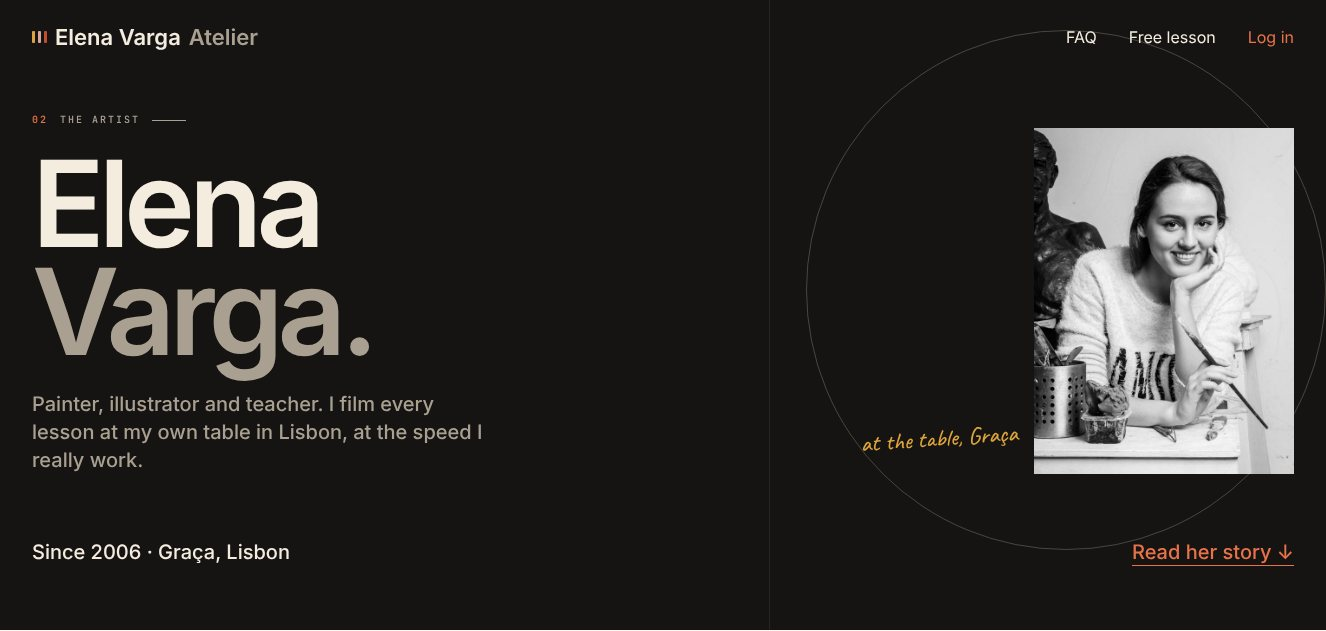
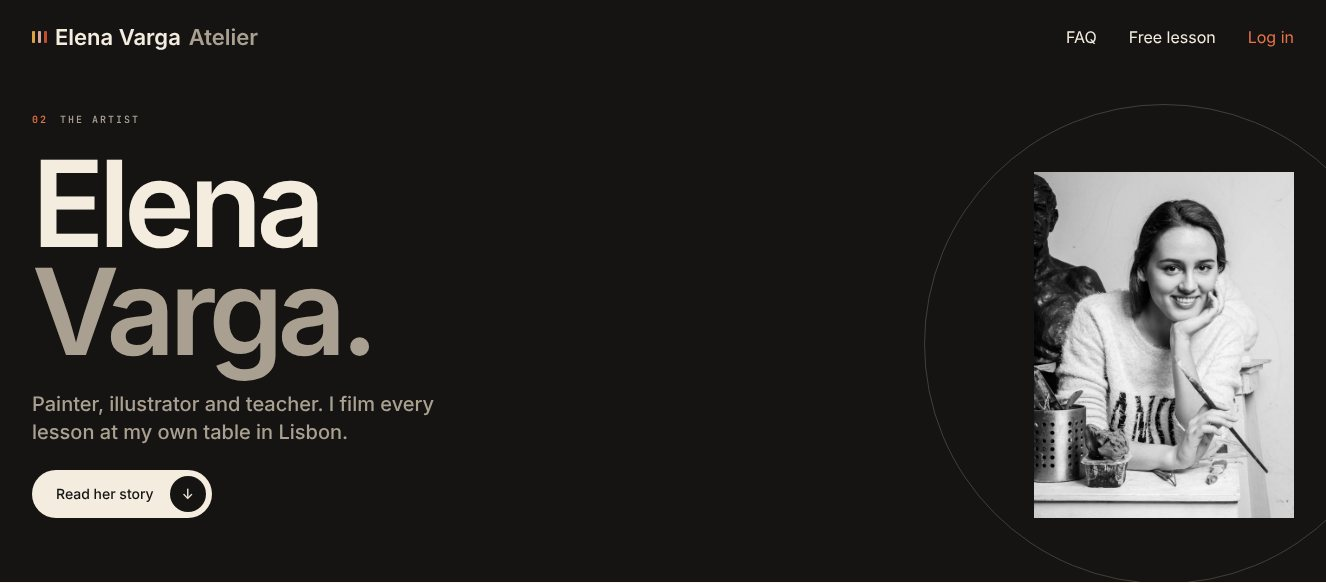
Calm the inner-page heroes: one ring, one button, nothing else
Drop the vertical guide line, handwritten notes and the bottom meta row.
The ring is now placed deliberately (concentric with the About portrait,
bleeding off the Contact corner) and each hero gets one pill button.
Overview copy and table updated to match.

Claude-Session: https://claude.ai/code/session_01LW72AKdDQxNmo8LVAmoq9X

diff --git a/elena-varga-about/inner-heroes/index.html b/elena-varga-about/inner-heroes/index.html
@@ -41,10 +41,10 @@
 .pt-n{color:var(--terra-text)}
 .pt p{margin-top:var(--space-1);color:var(--ink-2);max-width:620px}
 .pt-tag{color:var(--muted);text-align:right}
-.ex{list-style:none;align-items:start;display:grid;grid-template-columns:repeat(2,minmax(0,1fr));gap:var(--space-7) var(--space-5);margin-top:var(--space-7)}
-.ex a{display:flex;flex-direction:column;gap:var(--space-3);color:inherit;text-decoration:none}
-.ex .pair{display:flex;flex-direction:column;gap:var(--space-2)}
-.ex .pair img{display:block;width:100%;aspect-ratio:1326/570;object-fit:cover;object-position:top;border:1px solid var(--rule)}
+.ex{list-style:none;display:grid;grid-template-columns:repeat(2,minmax(0,1fr));gap:var(--space-7) var(--space-5);margin-top:var(--space-7)}
+.ex a{display:flex;flex-direction:column;gap:var(--space-3);height:100%;color:inherit;text-decoration:none}
+.ex .pair{display:flex;flex-direction:column;gap:var(--space-2);flex:1}
+.ex .pair img{display:block;width:100%;height:auto;border:1px solid var(--rule)}
 .ex h3{color:var(--ink);transition:color .25s}
 .ex a:hover h3{color:var(--terra)}
 .ex p{color:var(--ink-2)}
@@ -87,11 +87,11 @@
   <section class="ov-sec">
     <p class="label">Anatomy</p>
     <h2 class="heading-2">Six parts, all taken from the homepage.</h2>
-    <p class="body-m">Every inner hero is these six parts. Keep all six and it belongs to the family; change only what the last column says.</p>
+    <p class="body-m">Every inner hero is these six parts. Keep all six and it belongs to the family; change only what the last column says. Nothing else goes in a hero.</p>
     <div class="ov-fig"><img src="thumbs/about-night.jpg" alt="The About hero with its six parts numbered" width="1326" height="560" loading="lazy">
-      <span class="mk caption" style="left:21.5%;top:6%">1</span><span class="mk caption" style="left:75%;top:9%">2</span><span class="mk caption" style="left:15%;top:19%">3</span><span class="mk caption" style="left:27%;top:33%">4</span><span class="mk caption" style="left:98%;top:21%">5</span><span class="mk caption" style="left:23.5%;top:87.5%">6</span>
+      <span class="mk caption" style="left:21.5%;top:6%">1</span><span class="mk caption" style="left:72.5%;top:58%">2</span><span class="mk caption" style="left:15%;top:20.5%">3</span><span class="mk caption" style="left:26%;top:38%">4</span><span class="mk caption" style="left:98%;top:30%">5</span><span class="mk caption" style="left:17.5%;top:85%">6</span>
     </div>
-    <ol class="pt"><li><span class="pt-n caption">1</span><div><h3 class="heading-5">Nav row</h3><p class="body-m">The same brand and three links as the homepage hero. Hidden on phones, where the phone bar already carries them.</p></div><span class="pt-tag caption">Same on every page</span></li><li><span class="pt-n caption">2</span><div><h3 class="heading-5">Guide line and ring</h3><p class="body-m">The drawing’s construction lines. The same two shapes on every page, moved and resized: that is what makes it one family without repeating the home composition.</p></div><span class="pt-tag caption">Moves per page</span></li><li><span class="pt-n caption">3</span><div><h3 class="heading-5">Numbered label</h3><p class="body-m">The mono “02 · The artist” eyebrow, as in the section heads on the homepage.</p></div><span class="pt-tag caption">Same on every page</span></li><li><span class="pt-n caption">4</span><div><h3 class="heading-5">Title</h3><p class="body-m">The only large type. Display on story pages (display-m, display-l), heading-1 on utility pages. Two tones: the first word in the main colour, the rest softer.</p></div><span class="pt-tag caption">Size per page</span></li><li><span class="pt-n caption">5</span><div><h3 class="heading-5">One picture, or none</h3><p class="body-m">Only in the homepage frame style: square corners, black and white. At most one, and not the wide photo the homepage uses.</p></div><span class="pt-tag caption">Varies per page</span></li><li><span class="pt-n caption">6</span><div><h3 class="heading-5">Foot row</h3><p class="body-m">A little meta on the left, one link on the right, as in the homepage hero’s bottom row.</p></div><span class="pt-tag caption">Content per page</span></li></ol>
+    <ol class="pt"><li><span class="pt-n caption">1</span><div><h3 class="heading-5">Nav row</h3><p class="body-m">The same brand and three links as the homepage hero. Hidden on phones, where the phone bar already carries them.</p></div><span class="pt-tag caption">Same on every page</span></li><li><span class="pt-n caption">2</span><div><h3 class="heading-5">Ring</h3><p class="body-m">The homepage’s construction circle, once per hero and placed by the page: behind the portrait on About, bleeding off the corner on Contact. The vertical guide line stays a homepage-only detail.</p></div><span class="pt-tag caption">Moves per page</span></li><li><span class="pt-n caption">3</span><div><h3 class="heading-5">Numbered label</h3><p class="body-m">The small mono “02 The artist” eyebrow, as in the section heads on the homepage.</p></div><span class="pt-tag caption">Same on every page</span></li><li><span class="pt-n caption">4</span><div><h3 class="heading-5">Title</h3><p class="body-m">The only large type. Display on story pages (display-m, display-l), heading-1 on utility pages. Two tones: the first word in the main colour, the rest softer.</p></div><span class="pt-tag caption">Size per page</span></li><li><span class="pt-n caption">5</span><div><h3 class="heading-5">One picture, or none</h3><p class="body-m">Only in the homepage frame style: square corners, black and white. At most one, and not the wide photo the homepage uses.</p></div><span class="pt-tag caption">Varies per page</span></li><li><span class="pt-n caption">6</span><div><h3 class="heading-5">One button</h3><p class="body-m">The site’s pill button, in the hero’s own colours. Everything else a visitor needs sits in the page below.</p></div><span class="pt-tag caption">Label per page</span></li></ol>
   </section>
 
   <section class="ov-sec">
@@ -109,8 +109,8 @@
     <h2 class="heading-2">Night to sell and tell, paper to get things done.</h2>
     <p class="body-m">Story and course pages get the night hero (about 560px). Utility pages get the same parts on paper and shorter (about 360px), so a visitor reaches the form or the list fast. The homepage stays the only 864px hero.</p>
     <ol class="rc">
-      <li class="rc-h caption"><span>Page</span><span>Tone</span><span>Title</span><span>Picture</span><span>Foot row</span></li>
-      <li><span class="heading-5">About</span><span class="body-m">Night</span><span class="body-m">display-m, name on two lines</span><span class="body-m">One tall portrait</span><span class="body-m">Since 2006 · Read her story</span></li><li><span class="heading-5">Contact</span><span class="body-m">Night</span><span class="body-m">display-l, “Contact me.”</span><span class="body-m">None; three facts in the hero</span><span class="body-m">Since 2010 · Write to Elena</span></li><li><span class="heading-5">Courses</span><span class="body-m">Night</span><span class="body-m">display-m, “Six courses.”</span><span class="body-m">A strip of the six posters</span><span class="body-m">Free lesson link</span></li><li><span class="heading-5">Course page</span><span class="body-m">Night</span><span class="body-m">heading-1, course title in its colour</span><span class="body-m">The course poster</span><span class="body-m">Price and Enrol</span></li><li><span class="heading-5">Lesson</span><span class="body-m">Night</span><span class="body-m">heading-1</span><span class="body-m">The video, in the frame style</span><span class="body-m">Lesson number · Next</span></li><li><span class="heading-5">Studio notes</span><span class="body-m">Paper</span><span class="body-m">heading-1, short hero (360px)</span><span class="body-m">None</span><span class="body-m">Topic filters</span></li><li><span class="heading-5">Login, Create account</span><span class="body-m">Paper</span><span class="body-m">heading-1</span><span class="body-m">None (the form is the page)</span><span class="body-m">Link to the other form</span></li><li><span class="heading-5">Terms, Privacy</span><span class="body-m">Paper</span><span class="body-m">heading-1, short hero (360px)</span><span class="body-m">None</span><span class="body-m">Last updated</span></li>
+      <li class="rc-h caption"><span>Page</span><span>Tone</span><span>Title</span><span>Picture</span><span>Button</span></li>
+      <li><span class="heading-5">About</span><span class="body-m">Night</span><span class="body-m">display-m, name on two lines</span><span class="body-m">One tall portrait</span><span class="body-m">Read her story</span></li><li><span class="heading-5">Contact</span><span class="body-m">Night</span><span class="body-m">display-l, “Contact me.”</span><span class="body-m">None; three facts in the hero</span><span class="body-m">Write to Elena</span></li><li><span class="heading-5">Courses</span><span class="body-m">Night</span><span class="body-m">display-m, “Six courses.”</span><span class="body-m">A strip of the six posters</span><span class="body-m">Free lesson</span></li><li><span class="heading-5">Course page</span><span class="body-m">Night</span><span class="body-m">heading-1, course title in its colour</span><span class="body-m">The course poster</span><span class="body-m">Enrol</span></li><li><span class="heading-5">Lesson</span><span class="body-m">Night</span><span class="body-m">heading-1</span><span class="body-m">The video, in the frame style</span><span class="body-m">Next lesson</span></li><li><span class="heading-5">Studio notes</span><span class="body-m">Paper</span><span class="body-m">heading-1, short hero (360px)</span><span class="body-m">None</span><span class="body-m">None</span></li><li><span class="heading-5">Login, Create account</span><span class="body-m">Paper</span><span class="body-m">heading-1</span><span class="body-m">None (the form is the page)</span><span class="body-m">None</span></li><li><span class="heading-5">Terms, Privacy</span><span class="body-m">Paper</span><span class="body-m">heading-1, short hero (360px)</span><span class="body-m">None</span><span class="body-m">None</span></li>
     </ol>
     <p class="ov-note body-m">Not decided yet: whether Courses and Course pages should be night or paper. Night keeps them closest to the homepage; paper puts the colourful posters on a calmer ground.</p>
   </section>

diff --git a/elena-varga-about/assets/hero.css b/elena-varga-about/assets/hero.css
@@ -1,24 +1,22 @@
 /* Elena Varga Atelier · inner-page hero.
-   Same parts as the homepage hero (night panel, nav row, guide line + ring, numbered label, bottom row),
+   Same parts as the homepage hero (night panel, nav row, ring, numbered label, one big title), kept to the few that carry it,
    at about two thirds of the height, with a different composition on every page.
    Load after assets/tokens.css and assets/chrome.css. Every colour, size and space is a design-system token or text style. */
 
 .ih{
   --ih-bg:var(--night);--ih-fg:var(--paper);--ih-dim:var(--dim);--ih-accent:var(--accent-lt);
-  --ih-label:var(--accent-lt);--ih-line:var(--night-2);--ih-ring:var(--dim);--ih-hand:var(--ochre);
-  position:relative;display:flex;flex-direction:column;gap:var(--space-8);min-height:560px;
+  --ih-label:var(--accent-lt);--ih-rule:var(--night-2);--ih-ring:var(--dim);
+  position:relative;display:flex;flex-direction:column;gap:var(--space-8);
   padding:var(--space-5) var(--space-6) var(--space-8);overflow:hidden;background:var(--ih-bg);color:var(--ih-fg)
 }
 /* paper tone for utility pages: same parts, light ground */
 .ih-paper{
   --ih-bg:var(--page);--ih-fg:var(--ink);--ih-dim:var(--muted);--ih-accent:var(--terra-text);
-  --ih-label:var(--terra-text);--ih-line:var(--rule);--ih-ring:var(--ink);--ih-hand:var(--terra)
+  --ih-label:var(--terra-text);--ih-rule:var(--rule);--ih-ring:var(--ink)
 }
 
-/* the drawing's construction lines: one vertical guide and one ring, moved per page */
-.ih-guide{position:absolute;inset:0;pointer-events:none}
-.ih-line{position:absolute;top:0;bottom:0;left:var(--line-x,38%);width:1px;background:var(--ih-line)}
-.ih-ring{position:absolute;left:var(--ring-x,18%);top:var(--ring-y,80px);width:var(--ring-d,560px);height:var(--ring-d,560px);border:1px solid var(--ih-ring);border-radius:50%;opacity:.35}
+/* the ring: the homepage's construction circle, one per hero, placed by each page */
+.ih-ring{position:absolute;right:var(--ring-r,-120px);bottom:var(--ring-b,-120px);width:var(--ring-d,480px);height:var(--ring-d,480px);border:1px solid var(--ih-ring);border-radius:50%;opacity:.3;pointer-events:none}
 
 /* nav row, identical to the homepage hero */
 .ih-nav{position:relative;z-index:1;display:flex;justify-content:space-between;align-items:center;gap:var(--space-5)}
@@ -29,41 +27,40 @@
 .ih-links a:hover{color:var(--ih-accent)}
 .ih-links a:last-child{color:var(--ih-accent)}
 
-.ih-body{position:relative;z-index:1;flex:1}
-.ih-label{display:flex;align-items:center;gap:var(--space-3);color:var(--ih-dim);text-transform:uppercase}
-.ih-label b{font-weight:inherit;color:var(--ih-label)}
-.ih-label i{width:34px;height:1px;background:var(--ih-dim)}
+.ih-body{position:relative;z-index:1;flex:1;display:flex;flex-direction:column;justify-content:flex-end;gap:var(--space-5);align-items:flex-start}
+.ih-label{color:var(--ih-dim);text-transform:uppercase}
+.ih-label b{font-weight:inherit;margin-right:var(--space-3);color:var(--ih-label)}
 .ih-title{color:var(--ih-fg)}
 .ih-title span{display:block}
 .ih-title .soft{color:var(--ih-dim)}
-.ih-intro{color:var(--ih-dim);text-wrap:pretty}
-.ih-hand{color:var(--ih-hand)}
+.ih-intro{max-width:420px;color:var(--ih-dim);text-wrap:pretty}
 
-/* bottom row: a little meta on the left, one link on the right */
-.ih-foot{position:relative;z-index:1;display:flex;justify-content:space-between;align-items:center;gap:var(--space-5);flex-wrap:wrap}
-.ih-cta{color:var(--ih-accent);text-decoration:underline;text-decoration-thickness:1px;text-underline-offset:6px;transition:color .25s}
-.ih-cta:hover{color:var(--ih-fg)}
+/* the one button: the site's pill with an arrow disc, in the hero's own colours */
+.ih-btn{position:relative;isolation:isolate;overflow:hidden;display:inline-flex;align-items:center;gap:var(--space-4);height:48px;padding:0 6px 0 var(--space-5);border-radius:var(--radius-pill);background:var(--ih-fg);color:var(--ih-bg);text-decoration:none;white-space:nowrap}
+.ih-btn::after{content:"";position:absolute;inset:0;z-index:-1;background:var(--terra);transform:translateX(-101%);transition:transform .45s cubic-bezier(.6,.1,.2,1)}
+.ih-btn:hover::after,.ih-btn:focus-visible::after{transform:none}
+.ih-btn:hover{color:var(--paper)}
+.ih-btn .ar{display:grid;place-items:center;width:36px;height:36px;border-radius:50%;background:var(--ih-bg);color:var(--ih-fg);transition:transform .3s}
+.ih-btn:hover .ar{transform:rotate(-45deg)}
 .ih a:focus-visible{outline:2px solid var(--ih-accent);outline-offset:4px}
 
 /* pictures keep the homepage frame style: square corners, black and white */
 .ih-pic{position:relative;margin:0}
 .ih-pic img{display:block;width:100%;height:100%;object-fit:cover;filter:grayscale(1)}
 
-/* ---- About: the name large on the left, one tall portrait on the right, the ring behind it ---- */
-.ih-about{--line-x:58%;--ring-d:520px;--ring-x:calc(100% - 520px);--ring-y:30px}
-.ih-about .ih-body{display:grid;grid-template-columns:minmax(0,1fr) 260px;gap:var(--space-8);align-items:end}
-.ih-about .ih-text{display:flex;flex-direction:column;gap:var(--space-5);align-items:flex-start}
-.ih-about .ih-intro{max-width:480px}
+/* ---- About: the name on the left, one portrait on the right, the ring centred behind it ---- */
+.ih-about{--ring-d:480px;--ring-r:calc(var(--space-6) + 130px - 240px);--ring-b:calc(var(--space-8) + 174px - 240px)}
+.ih-about .ih-main{position:relative;z-index:1;flex:1;display:grid;grid-template-columns:minmax(0,1fr) 260px;gap:var(--space-8);align-items:end}
+.ih-about .ih-body{flex:none}
 .ih-about .ih-pic{aspect-ratio:3/4}
-.ih-about .ih-pic figcaption{position:absolute;left:calc(var(--space-4) * -1);bottom:var(--space-5);transform:translateX(-100%) rotate(-4deg);white-space:nowrap}
 
-/* ---- Contact: type only; the facts that used to sit in a column move into the hero ---- */
-.ih-contact{--line-x:72%;--ring-d:520px;--ring-x:56%;--ring-y:30px}
-.ih-contact .ih-body{display:flex;flex-direction:column;justify-content:flex-end;gap:var(--space-5);align-items:flex-start}
+/* ---- Contact: type only; the facts that sat in a column move into the hero, the ring bleeds off the corner ---- */
+.ih-contact{--ring-d:640px;--ring-r:-200px;--ring-b:-300px}
 .ih-contact .ih-title{white-space:nowrap}
-.ih-contact .ih-hand{position:absolute;right:0;top:var(--space-3);transform:rotate(-4deg)}
-.ih-facts{display:grid;grid-template-columns:repeat(3,minmax(0,1fr));gap:var(--space-5);width:100%}
-.ih-facts > div{display:flex;flex-direction:column;gap:var(--space-2);padding-top:var(--space-3);border-top:1px solid var(--ih-line)}
+.ih-contact .ih-title span{display:inline}
+.ih-row{display:flex;justify-content:space-between;align-items:flex-end;gap:var(--space-7);width:100%;margin-top:var(--space-3)}
+.ih-facts{flex:1;display:grid;grid-template-columns:repeat(3,minmax(0,1fr));gap:var(--space-5);max-width:880px}
+.ih-facts > div{display:flex;flex-direction:column;gap:var(--space-2);padding-top:var(--space-3);border-top:1px solid var(--ih-rule)}
 .ih-facts dt{color:var(--ih-dim);text-transform:uppercase}
 .ih-facts dd{color:var(--ih-fg)}
 
@@ -72,13 +69,11 @@
 }
 @media (max-width:980px){
   /* the phone bar already carries the brand and menu */
-  .ih{min-height:0;gap:var(--space-8);padding:var(--space-7) var(--gutter-phone) var(--space-7)}
+  .ih{gap:var(--space-7);padding:var(--space-7) var(--gutter-phone) var(--space-7)}
   .ih-nav,.ih-ring{display:none}
-  .ih-line{display:none}
-  .ih-about .ih-body{grid-template-columns:1fr;gap:var(--space-7)}
+  .ih-about .ih-main{grid-template-columns:1fr;gap:var(--space-7)}
   .ih-about .ih-pic{width:min(240px,70%)}
-  .ih-about .ih-pic figcaption{position:static;transform:rotate(-2deg);margin-top:var(--space-3);white-space:normal}
-  .ih-contact .ih-hand{position:static;transform:none}
   .ih-contact .ih-title{white-space:normal}
-  .ih-facts{grid-template-columns:1fr}
+  .ih-row{flex-direction:column;align-items:flex-start;gap:var(--space-6)}
+  .ih-facts{grid-template-columns:1fr;max-width:none}
 }

diff --git a/elena-varga-about/inner-heroes/about-hero.html b/elena-varga-about/inner-heroes/about-hero.html
@@ -52,17 +52,17 @@
 <!-- prototype bar: remove when the hero is attached to the page -->
 <div class="var-bar caption"><span><b>About hero</b> · not linked from the main site</span><nav aria-label="Preview"><span class="tone" role="group" aria-label="Tone"><button class="caption" type="button" data-tone="night" aria-pressed="true">Night</button><button class="caption" type="button" data-tone="paper" aria-pressed="false">Paper</button></span><a href="index.html">All heroes</a><a href="contact-hero.html">Contact →</a></nav></div>
 <header class="ih ih-about">
-  <div class="ih-guide" aria-hidden="true"><i class="ih-line"></i><i class="ih-ring"></i></div>
+  <i class="ih-ring" aria-hidden="true"></i>
   <nav class="ih-nav" aria-label="Main"><a class="ih-brand heading-5" href="#"><span class="strokes" aria-hidden="true"><i></i><i></i><i></i></span>Elena Varga <span>Atelier</span></a><span class="ih-links body-m"><a href="#">FAQ</a><a href="#">Free lesson</a><a href="#">Log in</a></span></nav>
-  <div class="ih-body">
-    <div class="ih-text">
-      <p class="ih-label label"><b>02</b>The artist<i></i></p>
+  <div class="ih-main">
+    <div class="ih-body">
+      <p class="ih-label label"><b>02</b>The artist</p>
       <h1 class="ih-title display-m"><span>Elena</span><span class="soft">Varga.</span></h1>
-      <p class="ih-intro body-l">Painter, illustrator and teacher. I film every lesson at my own table in Lisbon, at the speed I really work.</p>
+      <p class="ih-intro body-l">Painter, illustrator and teacher. I film every lesson at my own table in Lisbon.</p>
+      <a class="ih-btn button" href="#story">Read her story <span class="ar" aria-hidden="true">↓</span></a>
     </div>
-    <figure class="ih-pic"><img src="assets/img/portrait.jpg" alt="Elena Varga at her studio table" width="600" height="900"><figcaption class="ih-hand hand-s">at the table, Graça</figcaption></figure>
+    <figure class="ih-pic"><img src="assets/img/portrait.jpg" alt="Elena Varga at her studio table" width="600" height="900"></figure>
   </div>
-  <div class="ih-foot"><p class="body-l">Since 2006 · Graça, Lisbon</p><a class="ih-cta body-l" href="#story">Read her story ↓</a></div>
 </header><section class="ab-next" id="story">
   <p class="ab-label label"><b>02</b>The artist<i></i></p>
   <h2 class="heading-3">The Atelier captures how Elena Varga draws, paints and teaches, at her own table and at her own pace, <span>for anyone willing to look closely.</span></h2>

diff --git a/elena-varga-about/inner-heroes/contact-hero.html b/elena-varga-about/inner-heroes/contact-hero.html
@@ -100,19 +100,20 @@ textarea.ct-in{height:auto;min-height:96px;padding-top:var(--space-2);resize:ver
 <!-- prototype bar: remove when the hero is attached to the page -->
 <div class="var-bar caption"><span><b>Contact hero</b> · not linked from the main site</span><nav aria-label="Preview"><span class="tone" role="group" aria-label="Tone"><button class="caption" type="button" data-tone="night" aria-pressed="true">Night</button><button class="caption" type="button" data-tone="paper" aria-pressed="false">Paper</button></span><a href="index.html">All heroes</a><a href="about-hero.html">About →</a></nav></div>
 <header class="ih ih-contact">
-  <div class="ih-guide" aria-hidden="true"><i class="ih-line"></i><i class="ih-ring"></i></div>
+  <i class="ih-ring" aria-hidden="true"></i>
   <nav class="ih-nav" aria-label="Main"><a class="ih-brand heading-5" href="#"><span class="strokes" aria-hidden="true"><i></i><i></i><i></i></span>Elena Varga <span>Atelier</span></a><span class="ih-links body-m"><a href="#">FAQ</a><a href="#">Free lesson</a><a href="#">Log in</a></span></nav>
   <div class="ih-body">
-    <span class="ih-hand hand-s">she answers every one</span>
-    <p class="ih-label label"><b>05</b>Contact<i></i></p>
+    <p class="ih-label label"><b>05</b>Contact</p>
     <h1 class="ih-title display-l"><span>Contact</span> <span class="soft">me.</span></h1>
-    <dl class="ih-facts body-l">
-      <div><dt class="label">The studio</dt><dd>Rua da Graça 4, 3º<br>1170-165 Lisboa</dd></div>
-      <div><dt class="label">Letters read</dt><dd>Tuesday and Friday<br>mornings</dd></div>
-      <div><dt class="label">She replies</dt><dd>Within two<br>working days</dd></div>
-    </dl>
+    <div class="ih-row">
+      <dl class="ih-facts body-l">
+        <div><dt class="label">The studio</dt><dd>Rua da Graça 4, 3º<br>1170-165 Lisboa</dd></div>
+        <div><dt class="label">Letters read</dt><dd>Tuesday and Friday<br>mornings</dd></div>
+        <div><dt class="label">She replies</dt><dd>Within two<br>working days</dd></div>
+      </dl>
+      <a class="ih-btn button" href="#write">Write to Elena <span class="ar" aria-hidden="true">↓</span></a>
+    </div>
   </div>
-  <div class="ih-foot"><p class="body-l">Since 2010 · Graça, Lisbon</p><a class="ih-cta body-l" href="#write">Write to Elena ↓</a></div>
 </header><section class="ct ct-after" id="write">
   <div class="ct-grid">
     <div class="ct-intro">

diff --git a/elena-varga-about/build/build_hero.py b/elena-varga-about/build/build_hero.py
@@ -99,21 +99,20 @@ if True:
     pass
 
 NAVROW = '''<nav class="ih-nav" aria-label="Main"><a class="ih-brand heading-5" href="#"><span class="strokes" aria-hidden="true"><i></i><i></i><i></i></span>Elena Varga <span>Atelier</span></a><span class="ih-links body-m"><a href="#">FAQ</a><a href="#">Free lesson</a><a href="#">Log in</a></span></nav>'''
-GUIDE = '<div class="ih-guide" aria-hidden="true"><i class="ih-line"></i><i class="ih-ring"></i></div>'
 
 # ------------------------------------------------------------------ About
 ABOUT_HERO = f'''<header class="ih ih-about">
-  {GUIDE}
+  <i class="ih-ring" aria-hidden="true"></i>
   {NAVROW}
-  <div class="ih-body">
-    <div class="ih-text">
-      <p class="ih-label label"><b>02</b>The artist<i></i></p>
+  <div class="ih-main">
+    <div class="ih-body">
+      <p class="ih-label label"><b>02</b>The artist</p>
       <h1 class="ih-title display-m"><span>Elena</span><span class="soft">Varga.</span></h1>
-      <p class="ih-intro body-l">Painter, illustrator and teacher. I film every lesson at my own table in Lisbon, at the speed I really work.</p>
+      <p class="ih-intro body-l">Painter, illustrator and teacher. I film every lesson at my own table in Lisbon.</p>
+      <a class="ih-btn button" href="#story">Read her story <span class="ar" aria-hidden="true">↓</span></a>
     </div>
-    <figure class="ih-pic"><img src="assets/img/portrait.jpg" alt="Elena Varga at her studio table" width="600" height="900"><figcaption class="ih-hand hand-s">at the table, Graça</figcaption></figure>
+    <figure class="ih-pic"><img src="assets/img/portrait.jpg" alt="Elena Varga at her studio table" width="600" height="900"></figure>
   </div>
-  <div class="ih-foot"><p class="body-l">Since 2006 · Graça, Lisbon</p><a class="ih-cta body-l" href="#story">Read her story ↓</a></div>
 </header>'''
 ABOUT_NEXT = '''<section class="ab-next" id="story">
   <p class="ab-label label"><b>02</b>The artist<i></i></p>
@@ -136,19 +135,20 @@ ABOUT_CSS = '''
 
 # ------------------------------------------------------------------ Contact
 CONTACT_HERO = f'''<header class="ih ih-contact">
-  {GUIDE}
+  <i class="ih-ring" aria-hidden="true"></i>
   {NAVROW}
   <div class="ih-body">
-    <span class="ih-hand hand-s">she answers every one</span>
-    <p class="ih-label label"><b>05</b>Contact<i></i></p>
+    <p class="ih-label label"><b>05</b>Contact</p>
     <h1 class="ih-title display-l"><span>Contact</span> <span class="soft">me.</span></h1>
-    <dl class="ih-facts body-l">
-      <div><dt class="label">The studio</dt><dd>Rua da Graça 4, 3º<br>1170-165 Lisboa</dd></div>
-      <div><dt class="label">Letters read</dt><dd>Tuesday and Friday<br>mornings</dd></div>
-      <div><dt class="label">She replies</dt><dd>Within two<br>working days</dd></div>
-    </dl>
+    <div class="ih-row">
+      <dl class="ih-facts body-l">
+        <div><dt class="label">The studio</dt><dd>Rua da Graça 4, 3º<br>1170-165 Lisboa</dd></div>
+        <div><dt class="label">Letters read</dt><dd>Tuesday and Friday<br>mornings</dd></div>
+        <div><dt class="label">She replies</dt><dd>Within two<br>working days</dd></div>
+      </dl>
+      <a class="ih-btn button" href="#write">Write to Elena <span class="ar" aria-hidden="true">↓</span></a>
+    </div>
   </div>
-  <div class="ih-foot"><p class="body-l">Since 2010 · Graça, Lisbon</p><a class="ih-cta body-l" href="#write">Write to Elena ↓</a></div>
 </header>'''
 cm = open(S + '/site/pages/contact.main.html').read()
 form = cm[cm.find('<div>\n      <form'):cm.rfind('</div>\n  </div>\n</main>')]
@@ -182,22 +182,22 @@ def thumb(n, alt):
 
 PARTS = [
     ('Nav row', 'The same brand and three links as the homepage hero. Hidden on phones, where the phone bar already carries them.', 'Same on every page'),
-    ('Guide line and ring', 'The drawing’s construction lines. The same two shapes on every page, moved and resized: that is what makes it one family without repeating the home composition.', 'Moves per page'),
-    ('Numbered label', 'The mono “02 · The artist” eyebrow, as in the section heads on the homepage.', 'Same on every page'),
+    ('Ring', 'The homepage’s construction circle, once per hero and placed by the page: behind the portrait on About, bleeding off the corner on Contact. The vertical guide line stays a homepage-only detail.', 'Moves per page'),
+    ('Numbered label', 'The small mono “02 The artist” eyebrow, as in the section heads on the homepage.', 'Same on every page'),
     ('Title', 'The only large type. Display on story pages (display-m, display-l), heading-1 on utility pages. Two tones: the first word in the main colour, the rest softer.', 'Size per page'),
     ('One picture, or none', 'Only in the homepage frame style: square corners, black and white. At most one, and not the wide photo the homepage uses.', 'Varies per page'),
-    ('Foot row', 'A little meta on the left, one link on the right, as in the homepage hero’s bottom row.', 'Content per page'),
+    ('One button', 'The site’s pill button, in the hero’s own colours. Everything else a visitor needs sits in the page below.', 'Label per page'),
 ]
 parts = ''.join(f'<li><span class="pt-n caption">{i + 1}</span><div><h3 class="heading-5">{e}</h3><p class="body-m">{d}</p></div><span class="pt-tag caption">{t}</span></li>' for i, (e, d, t) in enumerate(PARTS))
 PAGES = [
-    ('About', 'Night', 'display-m, name on two lines', 'One tall portrait', 'Since 2006 · Read her story'),
-    ('Contact', 'Night', 'display-l, “Contact me.”', 'None; three facts in the hero', 'Since 2010 · Write to Elena'),
-    ('Courses', 'Night', 'display-m, “Six courses.”', 'A strip of the six posters', 'Free lesson link'),
-    ('Course page', 'Night', 'heading-1, course title in its colour', 'The course poster', 'Price and Enrol'),
-    ('Lesson', 'Night', 'heading-1', 'The video, in the frame style', 'Lesson number · Next'),
-    ('Studio notes', 'Paper', 'heading-1, short hero (360px)', 'None', 'Topic filters'),
-    ('Login, Create account', 'Paper', 'heading-1', 'None (the form is the page)', 'Link to the other form'),
-    ('Terms, Privacy', 'Paper', 'heading-1, short hero (360px)', 'None', 'Last updated'),
+    ('About', 'Night', 'display-m, name on two lines', 'One tall portrait', 'Read her story'),
+    ('Contact', 'Night', 'display-l, “Contact me.”', 'None; three facts in the hero', 'Write to Elena'),
+    ('Courses', 'Night', 'display-m, “Six courses.”', 'A strip of the six posters', 'Free lesson'),
+    ('Course page', 'Night', 'heading-1, course title in its colour', 'The course poster', 'Enrol'),
+    ('Lesson', 'Night', 'heading-1', 'The video, in the frame style', 'Next lesson'),
+    ('Studio notes', 'Paper', 'heading-1, short hero (360px)', 'None', 'None'),
+    ('Login, Create account', 'Paper', 'heading-1', 'None (the form is the page)', 'None'),
+    ('Terms, Privacy', 'Paper', 'heading-1, short hero (360px)', 'None', 'None'),
 ]
 rows = ''.join(f'<li><span class="heading-5">{a}</span><span class="body-m">{b}</span><span class="body-m">{c}</span><span class="body-m">{d}</span><span class="body-m">{f}</span></li>' for a, b, c, d, f in PAGES)
 
@@ -219,10 +219,10 @@ OV_CSS = PROTO + '''
 .pt-n{color:var(--terra-text)}
 .pt p{margin-top:var(--space-1);color:var(--ink-2);max-width:620px}
 .pt-tag{color:var(--muted);text-align:right}
-.ex{list-style:none;align-items:start;display:grid;grid-template-columns:repeat(2,minmax(0,1fr));gap:var(--space-7) var(--space-5);margin-top:var(--space-7)}
-.ex a{display:flex;flex-direction:column;gap:var(--space-3);color:inherit;text-decoration:none}
-.ex .pair{display:flex;flex-direction:column;gap:var(--space-2)}
-.ex .pair img{display:block;width:100%;aspect-ratio:1326/570;object-fit:cover;object-position:top;border:1px solid var(--rule)}
+.ex{list-style:none;display:grid;grid-template-columns:repeat(2,minmax(0,1fr));gap:var(--space-7) var(--space-5);margin-top:var(--space-7)}
+.ex a{display:flex;flex-direction:column;gap:var(--space-3);height:100%;color:inherit;text-decoration:none}
+.ex .pair{display:flex;flex-direction:column;gap:var(--space-2);flex:1}
+.ex .pair img{display:block;width:100%;height:auto;border:1px solid var(--rule)}
 .ex h3{color:var(--ink);transition:color .25s}
 .ex a:hover h3{color:var(--terra)}
 .ex p{color:var(--ink-2)}
@@ -248,9 +248,9 @@ ov = f'''<main class="vn">
   <section class="ov-sec">
     <p class="label">Anatomy</p>
     <h2 class="heading-2">Six parts, all taken from the homepage.</h2>
-    <p class="body-m">Every inner hero is these six parts. Keep all six and it belongs to the family; change only what the last column says.</p>
+    <p class="body-m">Every inner hero is these six parts. Keep all six and it belongs to the family; change only what the last column says. Nothing else goes in a hero.</p>
     <div class="ov-fig">{thumb('about-night', 'The About hero with its six parts numbered')}
-      <span class="mk caption" style="left:21.5%;top:6%">1</span><span class="mk caption" style="left:75%;top:9%">2</span><span class="mk caption" style="left:15%;top:19%">3</span><span class="mk caption" style="left:27%;top:33%">4</span><span class="mk caption" style="left:98%;top:21%">5</span><span class="mk caption" style="left:23.5%;top:87.5%">6</span>
+      <span class="mk caption" style="left:21.5%;top:6%">1</span><span class="mk caption" style="left:72.5%;top:58%">2</span><span class="mk caption" style="left:15%;top:20.5%">3</span><span class="mk caption" style="left:26%;top:38%">4</span><span class="mk caption" style="left:98%;top:30%">5</span><span class="mk caption" style="left:17.5%;top:85%">6</span>
     </div>
     <ol class="pt">{parts}</ol>
   </section>
@@ -270,7 +270,7 @@ ov = f'''<main class="vn">
     <h2 class="heading-2">Night to sell and tell, paper to get things done.</h2>
     <p class="body-m">Story and course pages get the night hero (about 560px). Utility pages get the same parts on paper and shorter (about 360px), so a visitor reaches the form or the list fast. The homepage stays the only 864px hero.</p>
     <ol class="rc">
-      <li class="rc-h caption"><span>Page</span><span>Tone</span><span>Title</span><span>Picture</span><span>Foot row</span></li>
+      <li class="rc-h caption"><span>Page</span><span>Tone</span><span>Title</span><span>Picture</span><span>Button</span></li>
       {rows}
     </ol>
     <p class="ov-note body-m">Not decided yet: whether Courses and Course pages should be night or paper. Night keeps them closest to the homepage; paper puts the colourful posters on a calmer ground.</p>
